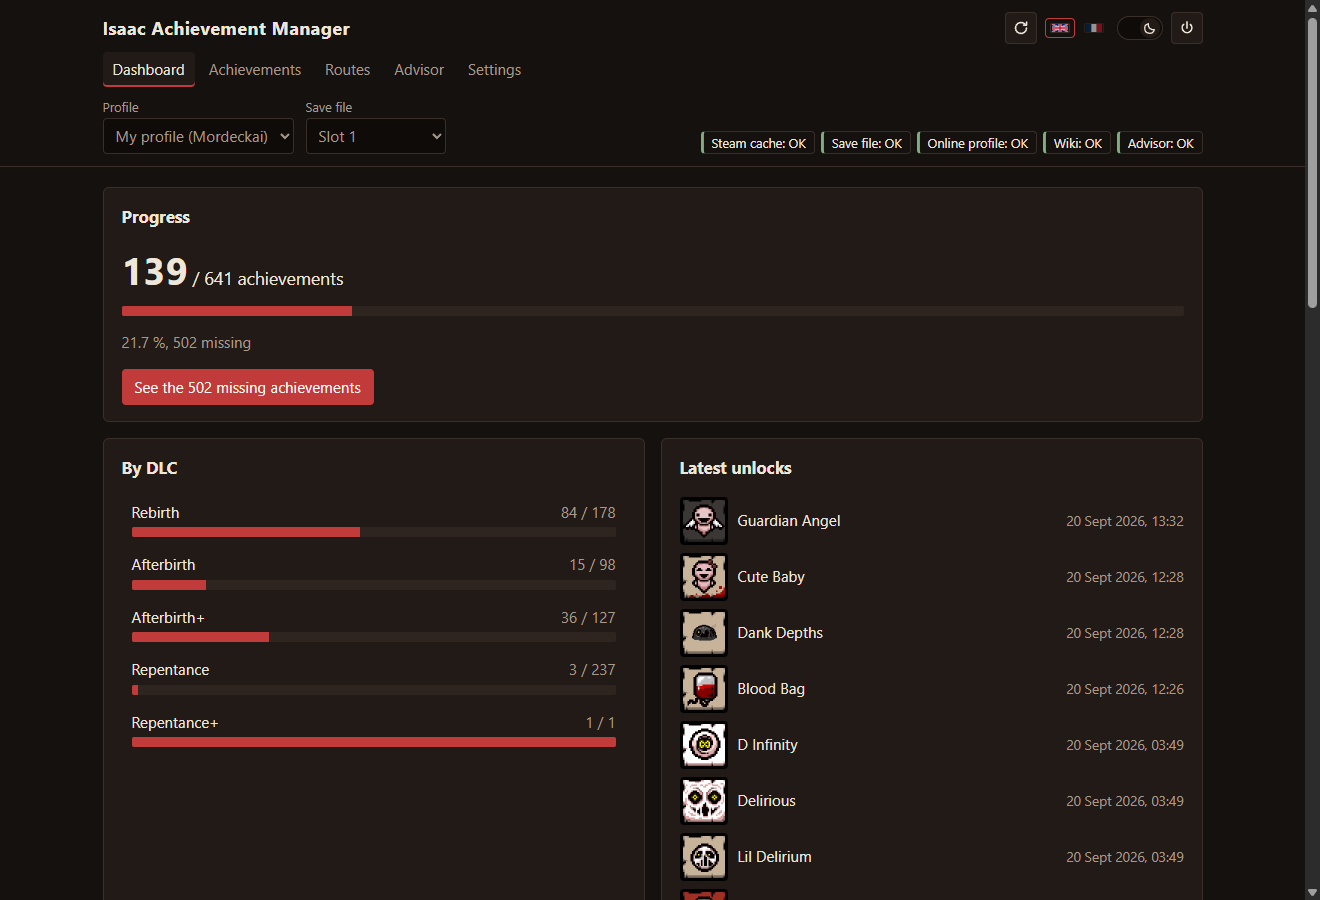
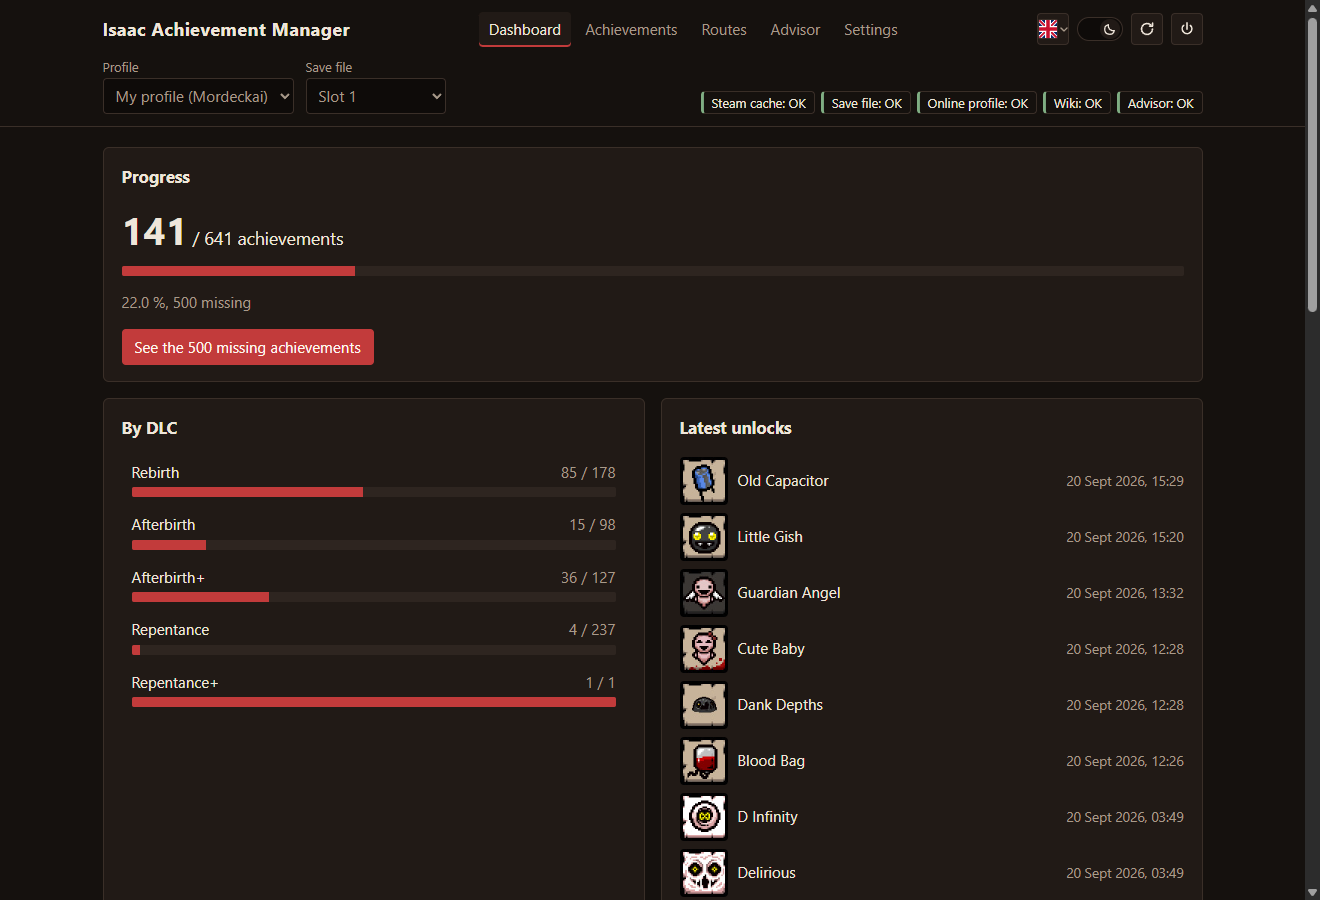
docs: show the setup block and the language menu in the README

diff --git a/README.md b/README.md
@@ -19,7 +19,7 @@ never writes to them.
 | Game | Repentance+, Windows, launched at least once |
 | Reads | Steam achievement cache, `rep+persistentgamedata{1,2,3}.dat`, public Steam profile |
 | Requirements | Windows 10 or 11, Node.js 26 or newer, Steam |
-| Advisor (optional) | an [Ollama](https://ollama.com/) server, `qwen3.5:4b` by default |
+| Advisor (optional) | an [Ollama](https://ollama.com/) server, which the app can install for you |
 
 Your Steam profile needs its game details set to public for the cross check and for looking up
 another player. Everything else works offline once the wiki base is downloaded.
@@ -90,18 +90,23 @@ are sent back.
 
 ### Settings
 
-![Advisor settings](assets/settings-advisor.png)
+![Advisor settings, with the setup block](assets/settings-advisor.png)
 
 Interface language, wiki sync with its progress, Ollama server and model (the list offers the models
 installed on the server), and the Steam paths and account that were detected. Saving writes
 `data/settings.json` and applies without a restart.
 
+As long as the advisor cannot answer, this screen offers to set it up: it says whether Ollama is on
+the machine and installs it with winget if it is not, reads the video memory to pick the model the
+machine can run, downloads it with its progress, and puts it to use once it is there. The whole
+advisor stays optional: skip it and the rest of the app works the same.
+
 ## Language
 
 ![French interface](assets/francais.png)
 
-English or French, picked from the two flags in the header. The choice is saved in
-`data/settings.json` and in the browser, so it survives a reload and a restart. The advisor answers
+English or French, picked from the flag in the header, which opens the list of languages. The choice
+is saved in `data/settings.json` and in the browser, so it survives a reload and a restart. The advisor answers
 in the language of the interface. The names of the game (achievements, characters, items, bosses)
 stay in English in both, because that is what the game shows.
 
@@ -143,9 +148,10 @@ If double clicking `Isaac Manager.cmd` does nothing, read `data/server.log`, che
 If the wiki sync fails, the previous base stays in use. With no network, the sync reuses the pages
 already copied in `data/wiki-cache/`; the report says how many.
 
-If the advisor does not answer: check the server address in the settings (**Check the connection**),
-that the model is installed (`ollama pull qwen3.5:4b`), and that the firewall of the server lets the
-port 11434 through. The rest of the app works without Ollama.
+If the advisor does not answer: the settings screen offers to install Ollama and to download a model
+for you. For a server on another machine, check its address there (**Check the connection**), that
+the model is installed (`ollama pull qwen3.5:4b`), and that its firewall lets the port 11434 through.
+The rest of the app works without Ollama.
 
 If the answers never arrive although the server responds: Ollama handles one request at a time per
 model, so another application keeping it busy makes yours wait. Video memory matters too: the app
@@ -169,7 +175,7 @@ The save slot shown by default is the most recently modified one; a picker chang
 
 ```
 npm run dev        # server plus Vite (hot reload) on http://127.0.0.1:5250/
-npm test           # 610 Vitest tests (server and front)
+npm test           # 629 Vitest tests (server and front)
 npm run typecheck  # TypeScript
 npm run sync-wiki  # wiki sync with no interface
 node scripts/check-language.mjs  # fails when French leaks outside shared/i18n/fr.ts
